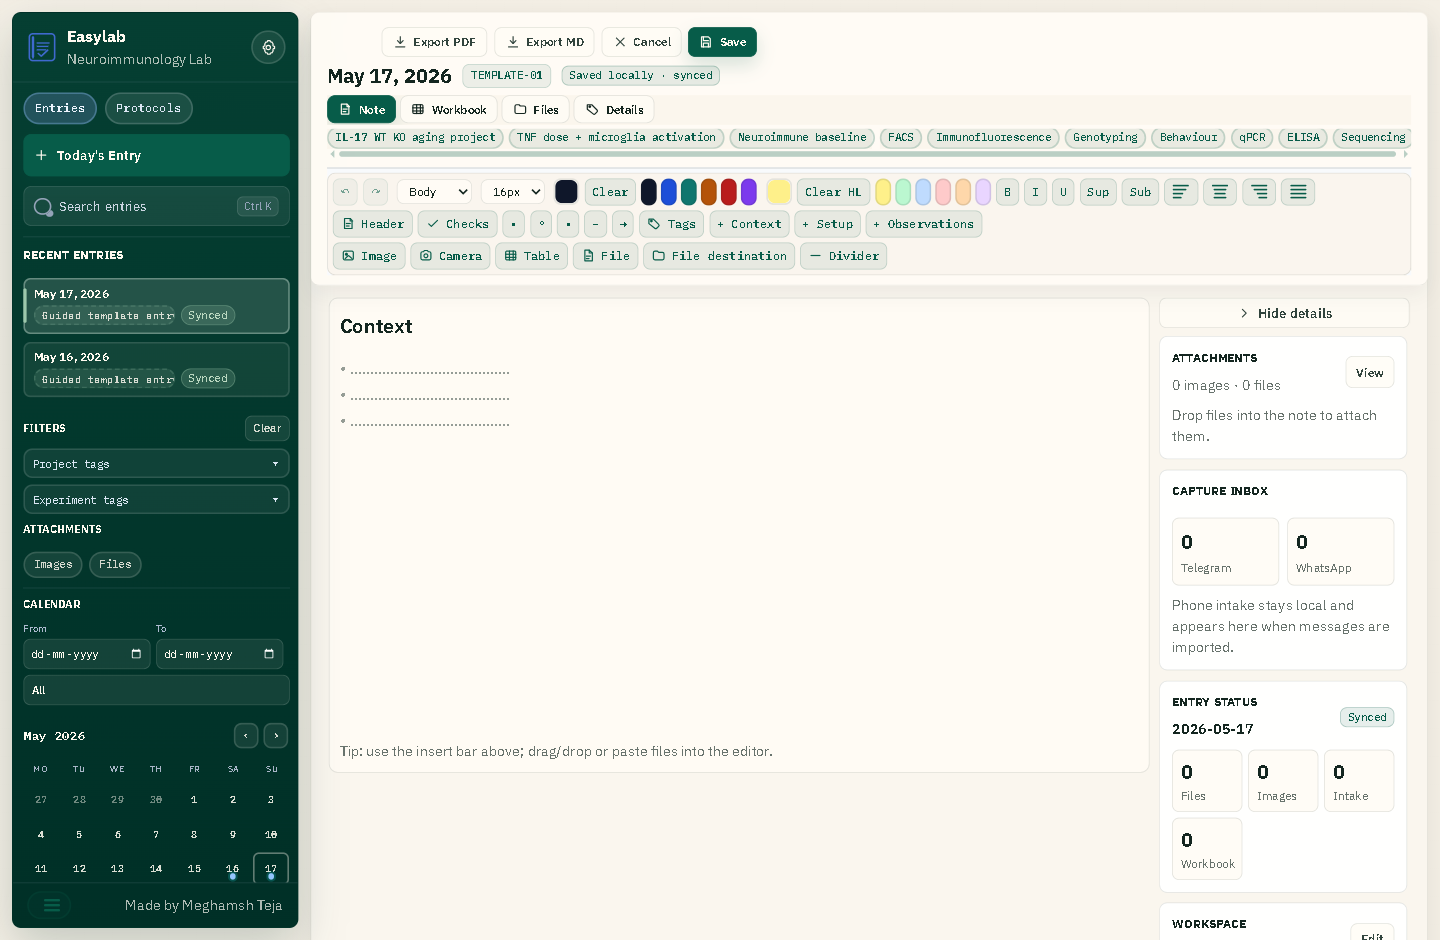
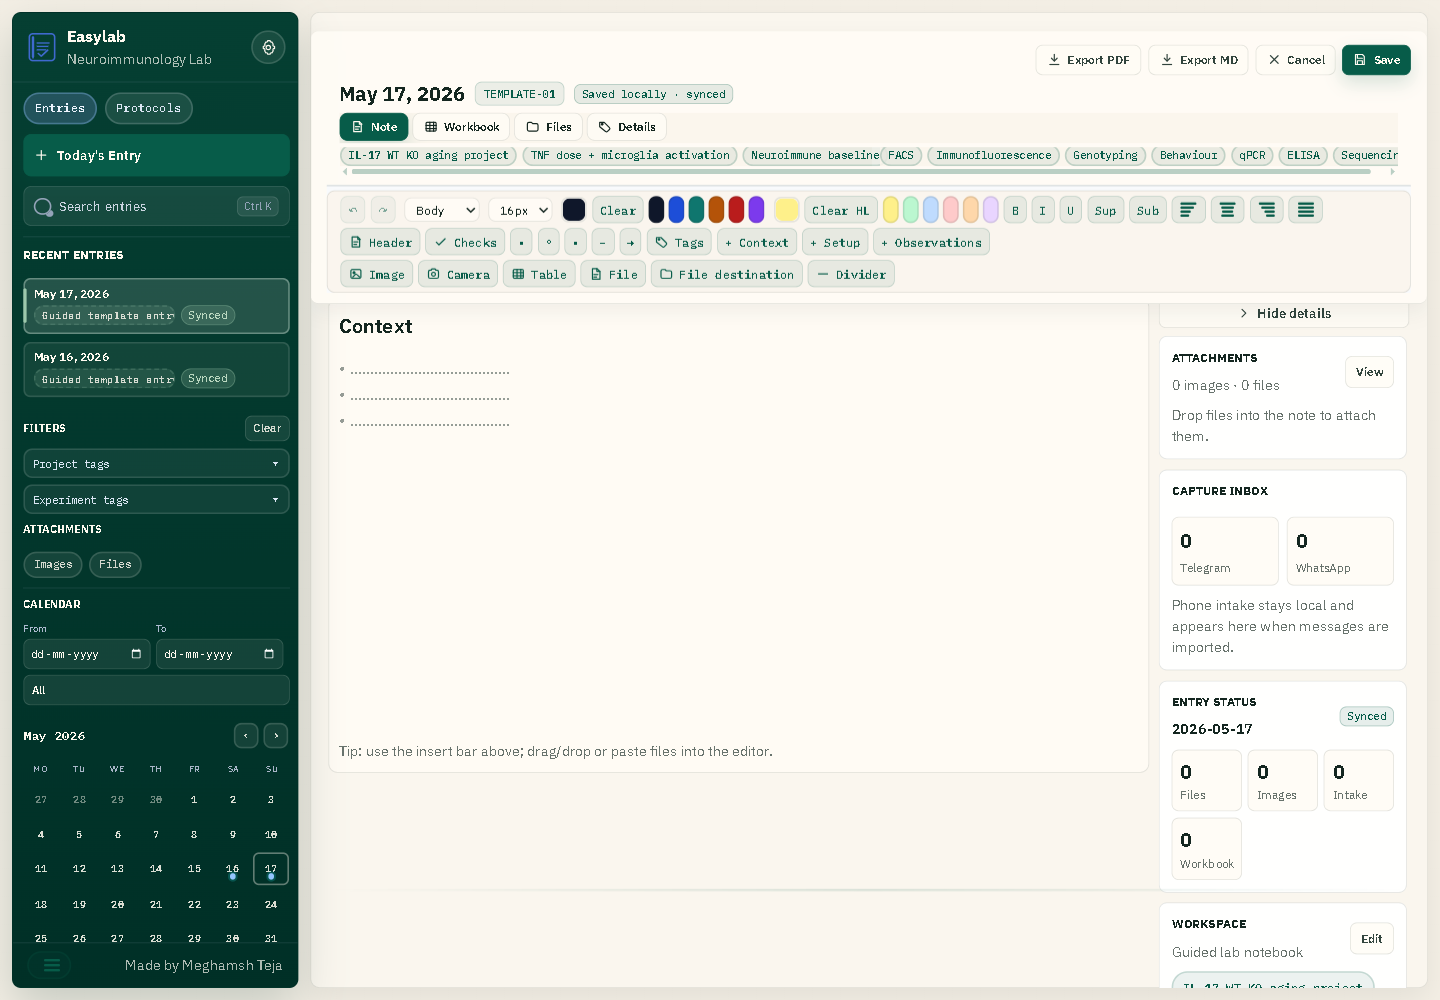
Refresh notebook docs and screenshots

diff --git a/README.md b/README.md
@@ -97,12 +97,12 @@ Telegram is the simpler local intake path. It uses a bot token and polling, so n
 
 1. Create a bot with [BotFather](https://t.me/BotFather).
 2. Send a test message to the bot.
-3. Open `https://api.telegram.org/bot<bot-token>/getUpdates` and copy `message.chat.id`.
-4. Copy `desktop/scripts/telegram-intake-config.example.json` to:
+3. Open `https://api.telegram.org/bot<bot-token>/getUpdates` in a browser and copy `message.chat.id` from the JSON response.
+4. Copy [`desktop/scripts/telegram-intake-config.example.json`](desktop/scripts/telegram-intake-config.example.json) to:
    ```text
    %USERPROFILE%\Documents\Easylab\Lab Notebook\data\telegram-intake-config.json
    ```
-5. Fill in `botToken` and `allowedChatIds`.
+5. Fill in `botToken` and `allowedChatIds`. Keep this real config file local; do not commit it.
 6. Start the local poller:
    ```powershell
    & "$env:LOCALAPPDATA\Programs\Easylab Suite\Easylab Suite.exe" --labnote-telegram-intake
